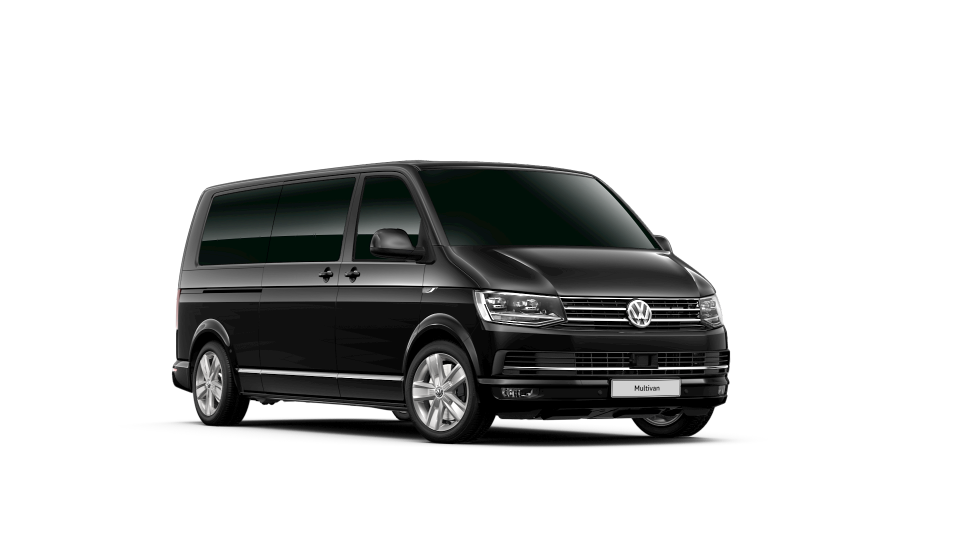
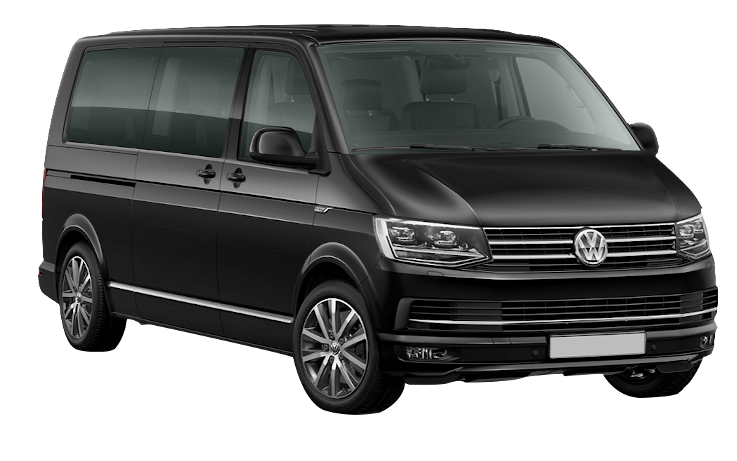
fixed the rpi voice commands issue, added car image selection into settings

diff --git a/autovip_ls/SGlobal.qml b/autovip_ls/SGlobal.qml
@@ -2406,15 +2406,17 @@ ListModel {
     }
         Connections{
             target:serial_mng
-//            onRunFunction:function(fname){
-//                if(typeof root[fname] == "function")
-//                {
-//                    root[fname]();
-//                }
-//            }
-//            onConnectionChanged:function(st)
-//            {
-//            }
+            //@disable-check M16
+            onRunFunction:function(fname){
+                if(typeof root[fname] == "function")
+                {
+                    root[fname]();
+                }
+            }
+            //@disable-check M16
+            onConnectionChanged:function(st)
+            {
+            }
             //@disable-check M16
             onSystemstateChanged:function(st)
             {

diff --git a/autovip_ls/Pages/Home.qml b/autovip_ls/Pages/Home.qml
@@ -15,9 +15,16 @@ BasePage {
     Image{
         id:car
         source: "qrc:/design/home/car.png"
+        height: 461
+        width: 737
         anchors.centerIn: parent
         anchors.horizontalCenter: parent.horizontalCenter
         anchors.verticalCenterOffset: 35
+        Component.onCompleted: {
+            console.log("carsize " + height + " " + width)
+            if (SM.carModel()===2)
+                car.source="qrc:/design/home/vw.png";
+        }
     }
     RightInfoBar{
         id: rightInfoBar

diff --git a/autovip_ls/settingsmanager.cpp b/autovip_ls/settingsmanager.cpp
@@ -47,6 +47,11 @@ QString SettingsManager::localeCode(){
     return QLocale(static_cast<QLocale::Language>(this->general->value("main/lang",Langs::ENG).toInt())).name();
 }
 
+int SettingsManager::carModel(){
+    qDebug()<<"carmodel"<<this->general->value("main/carmodel",1).toInt();
+    return this->general->value("main/carmodel",1).toInt();
+}
+
 uint SettingsManager::actype()
 {
     return this->general->value("main/actype",1).toUInt();

diff --git a/autovip_ls/settingsmanager.h b/autovip_ls/settingsmanager.h
@@ -145,7 +145,7 @@ Q_INVOKABLE  bool saveLightMemory(int p_unit,int type,QString p_color);
 Q_INVOKABLE  QString getLightMemory(int p_unit,int type);
 Q_INVOKABLE  bool musicPlayer(){return general->value("main/musicplayer").toBool();}
 Q_INVOKABLE  bool ampInput();
-
+Q_INVOKABLE  int carModel();
 signals:
     void langChanged(int);
     void mediaPlayerURLChanged(QString);
